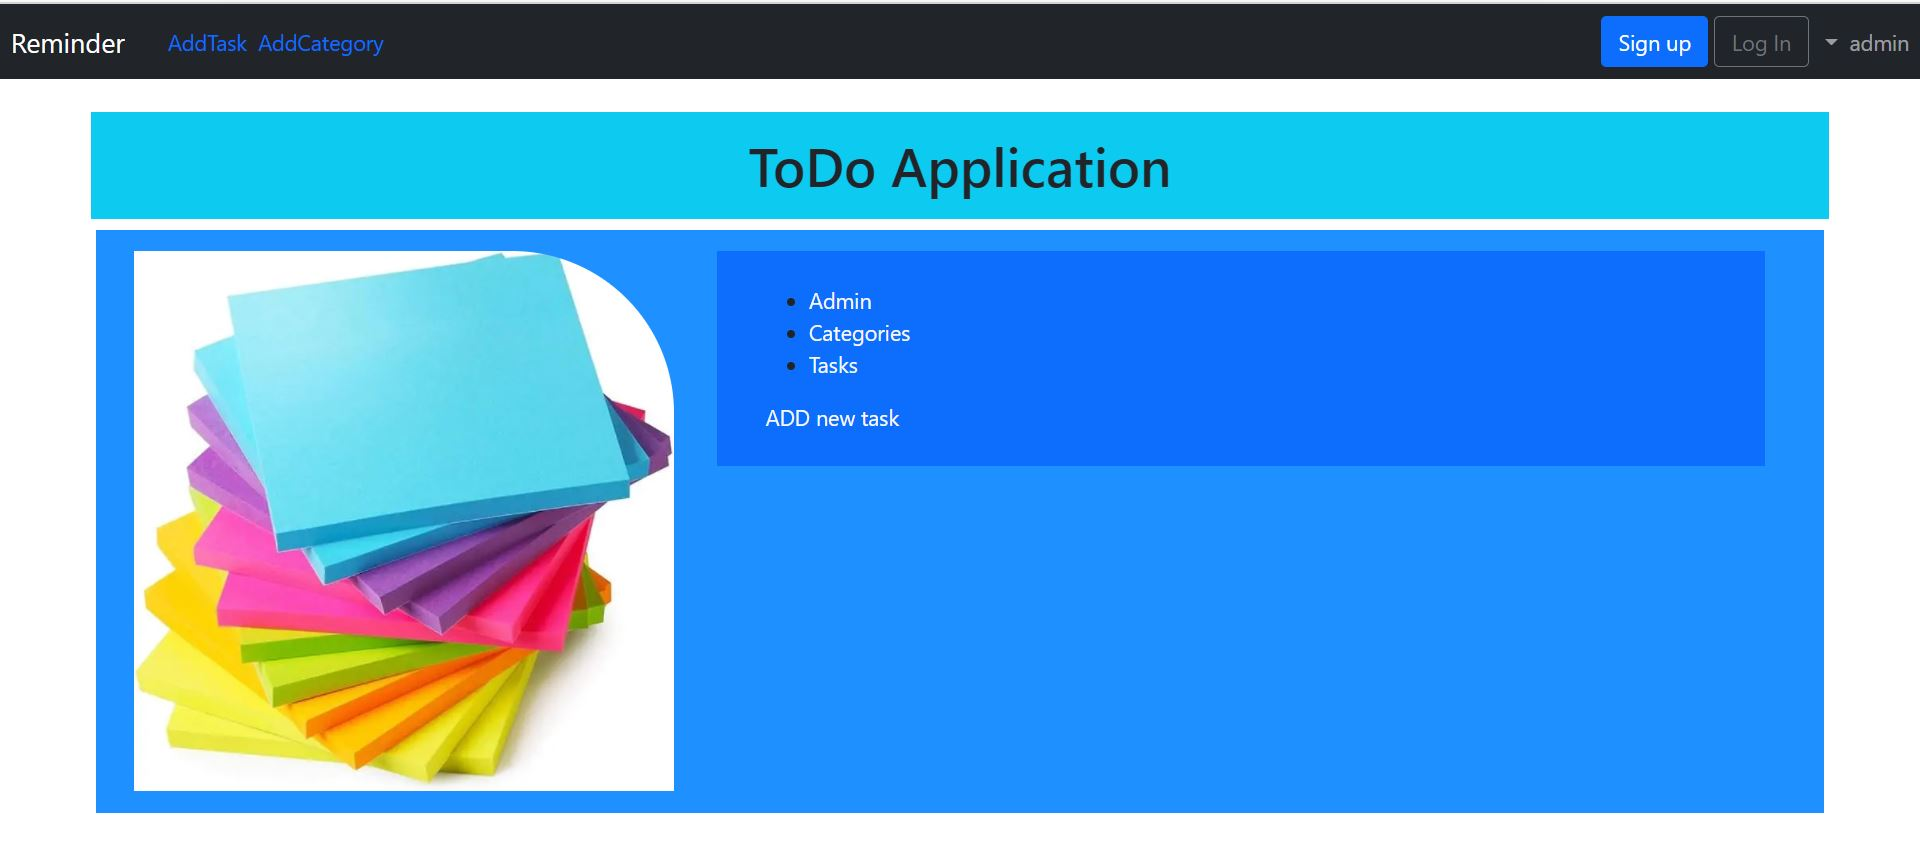
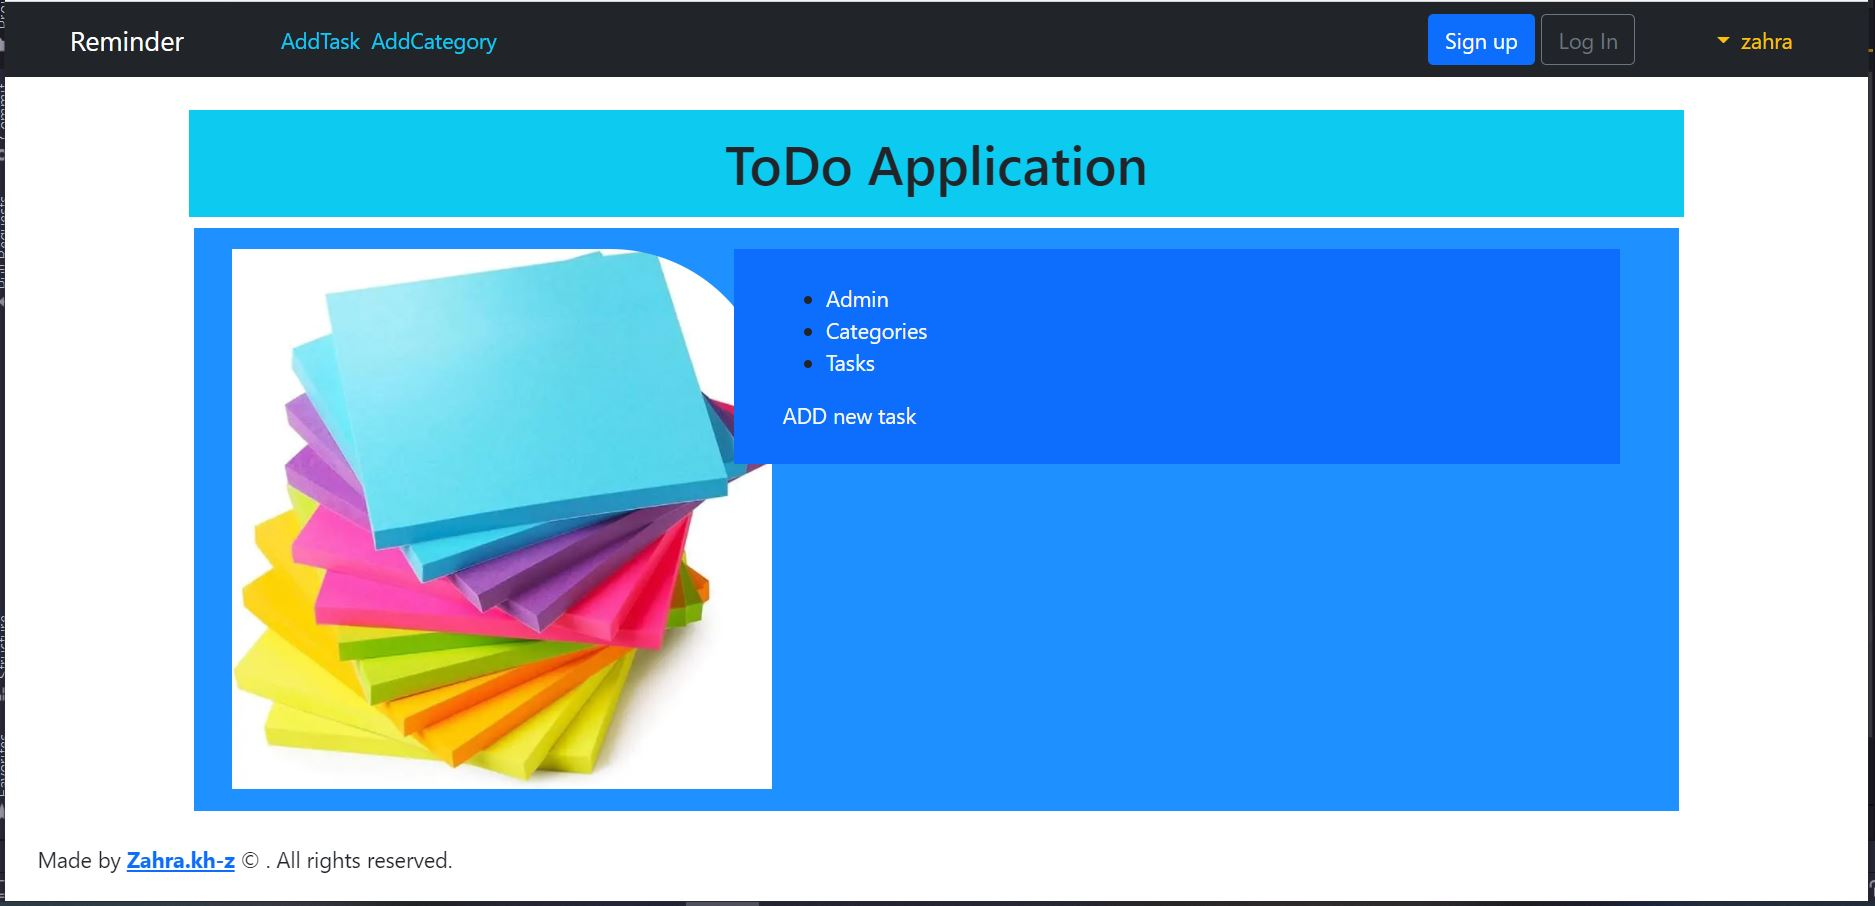
add footer

diff --git a/templates/base.html b/templates/base.html
@@ -27,11 +27,11 @@
 </head>
     <body>
         <nav class="navbar navbar-expand-md navbar-dark bg-dark mb-4">
-                <a class="navbar-brand mx-2" href="{% url 'home' %}">Reminder</a>
+                <a class="navbar-brand mx-5" href="{% url 'home' %}">Reminder</a>
 {#                    {% if user.is_authenticated %}#}
                         <ul class="navbar-nav mr-auto px-4">
-                            <li class="nav-item "><a class="text-decoration-none" href="{% url 'task_new' %}">AddTask</a> | </li>
-                            <li class="nav-item"><a class="text-decoration-none" href="{% url 'category_new' %}">AddCategory</a></li>
+                            <li class="nav-item"><a class="text-decoration-none text-info" href="{% url 'task_new' %}">AddTask</a> | </li>
+                            <li class="nav-item"><a class="text-decoration-none text-info" href="{% url 'category_new' %}">AddCategory</a></li>
                         </ul>
 {#                    {% endif %}#}
 
@@ -44,9 +44,9 @@
             <div class="collapse navbar-collapse" id="navbarCollapse" dir="rtl">
 
 {#                {% if user.is_authenticated %}#}
-                    <ul class="navbar-nav ml-auto  ">
+                    <ul class="navbar-nav ml-auto mx-5 " >
                         <li class="nav-item dropdown">
-                          <a class="nav-link dropdown-toggle" href="#" id="userMenu"
+                          <a class="nav-link dropdown-toggle text-warning" href="#" id="userMenu"
                              role="button" data-bs-toggle="dropdown" aria-expanded="false">
                               {{ user.username }}
                           </a>
@@ -89,5 +89,13 @@
         <script src="https://cdn.jsdelivr.net/npm/@popperjs/core@2.9.2/dist/umd/popper.min.js" integrity="sha384-IQsoLXl5PILFhosVNubq5LC7Qb9DXgDA9i+tQ8Zj3iwWAwPtgFTxbJ8NT4GN1R8p" crossorigin="anonymous"></script>
          <script src="https://cdn.jsdelivr.net/npm/bootstrap@5.0.2/dist/js/bootstrap.min.js" integrity="sha384-cVKIPhGWiC2Al4u+LWgxfKTRIcfu0JTxR+EQDz/bgldoEyl4H0zUF0QKbrJ0EcQF" crossorigin="anonymous"></script>
 
+
+    <footer>
+        <div class="text-center px-4" style="position: fixed;bottom: 20px;">
+            Made by
+            <strong><a href="https://github.com/zahra-kh-z" target="_blank">Zahra.kh-z</a></strong>
+            © . All rights reserved.
+        </div>
+    </footer>
     </body>
 </html>

diff --git a/templates/task_list.html b/templates/task_list.html
@@ -3,8 +3,8 @@
 {% block content %}
 {% load static %}
     <link rel="stylesheet" href={% static 'css/task_list.css' %}>
-    <h5><a class="text-decoration-none" href={% url 'task_datatable' %}>نمایش تسک با دیتا تیبل</a></h5>
-    <h5><a class="text-decoration-none" href="{% url 'task_list' %}">نمایش تسک با تیبل</a></h5>
+    <h5><a class="text-decoration-none" href={% url 'task_datatable' %}>show task_list with datatable</a></h5>
+    <h5><a class="text-decoration-none" href="{% url 'task_list' %}">show task_list with table tag</a></h5>
         <section class="bg-light p-3 m-3 text-center">
         <table style="border-collapse:collapse; margin: 30px auto ">
         <thead>

diff --git a/templates/datatable.html b/templates/datatable.html
@@ -67,8 +67,8 @@
     </nav>
 
 <div class="container" style="border-collapse:collapse; margin: 30px auto; max-width: 50% ">
-    <h5><a class="text-decoration-none" href={% url 'task_datatable' %}>نمایش تسک با دیتا تیبل</a></h5>
-<h5><a class="text-decoration-none" href="{% url 'task_list' %}">نمایش تسک با تیبل</a></h5>
+    <h5><a class="text-decoration-none" href={% url 'task_datatable' %}>show task_list with datatable</a></h5>
+<h5><a class="text-decoration-none" href="{% url 'task_list' %}">show task_list with table tag</a></h5>
 <br>
 
 <table id="example" class="display" >

diff --git a/README.md b/README.md
@@ -17,4 +17,4 @@ rest-framework for api, serializer
 
 slug, forms, crispy, views.generic, APIView, ...
 
-![todo app homepage](medias/TODO.JPG "Title Text")
+![todo app homepage image](medias/TODO.JPG "Title Text")
